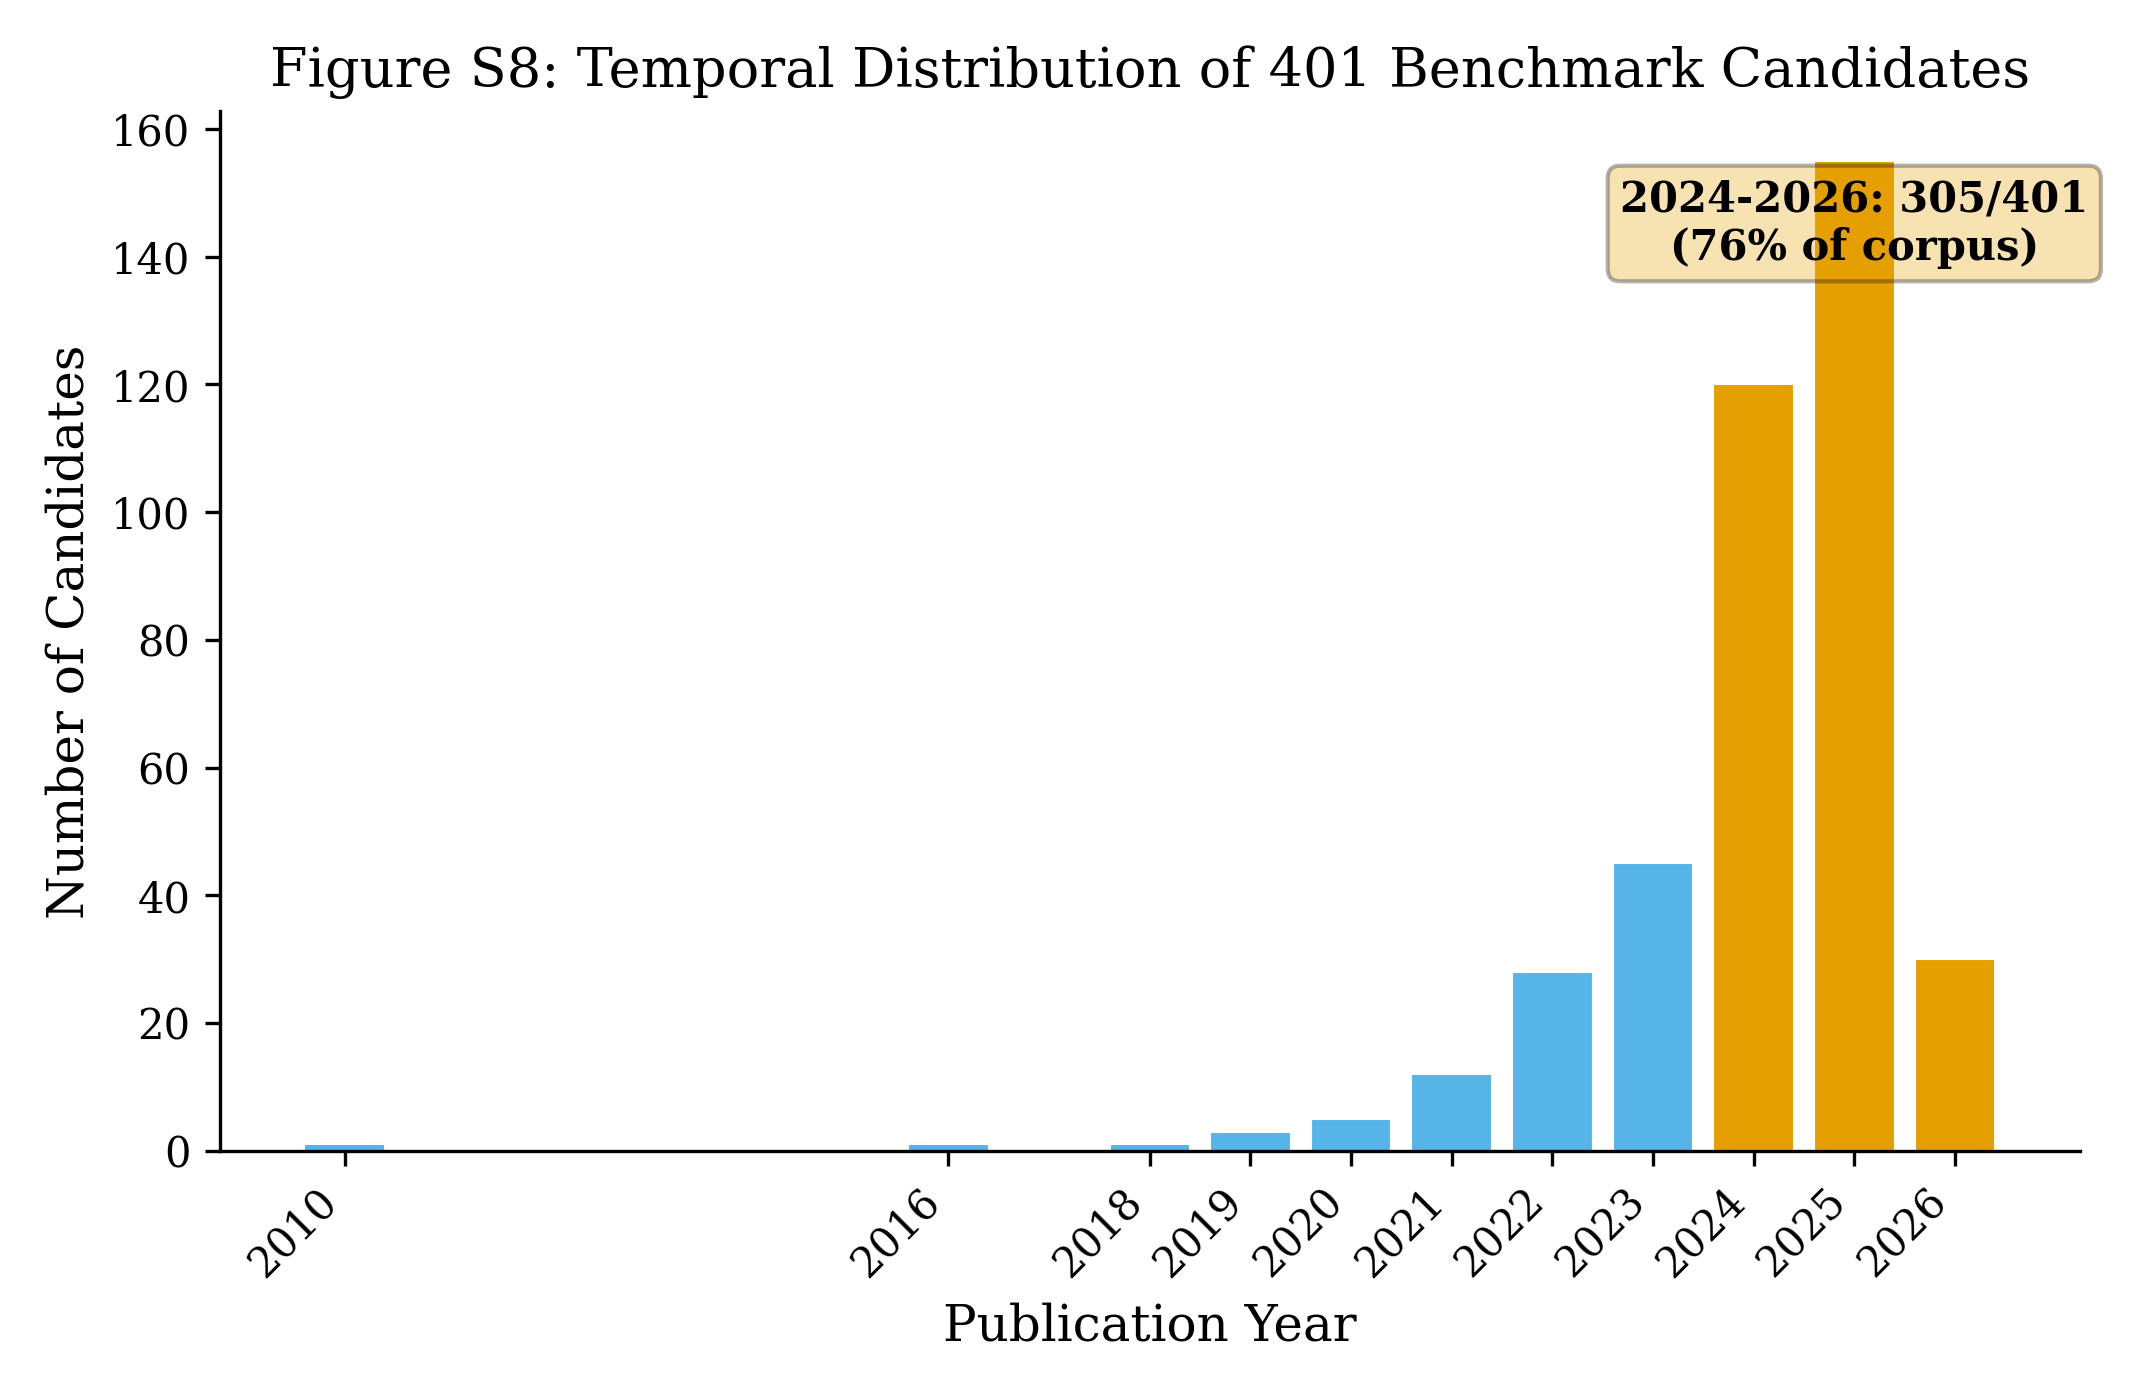
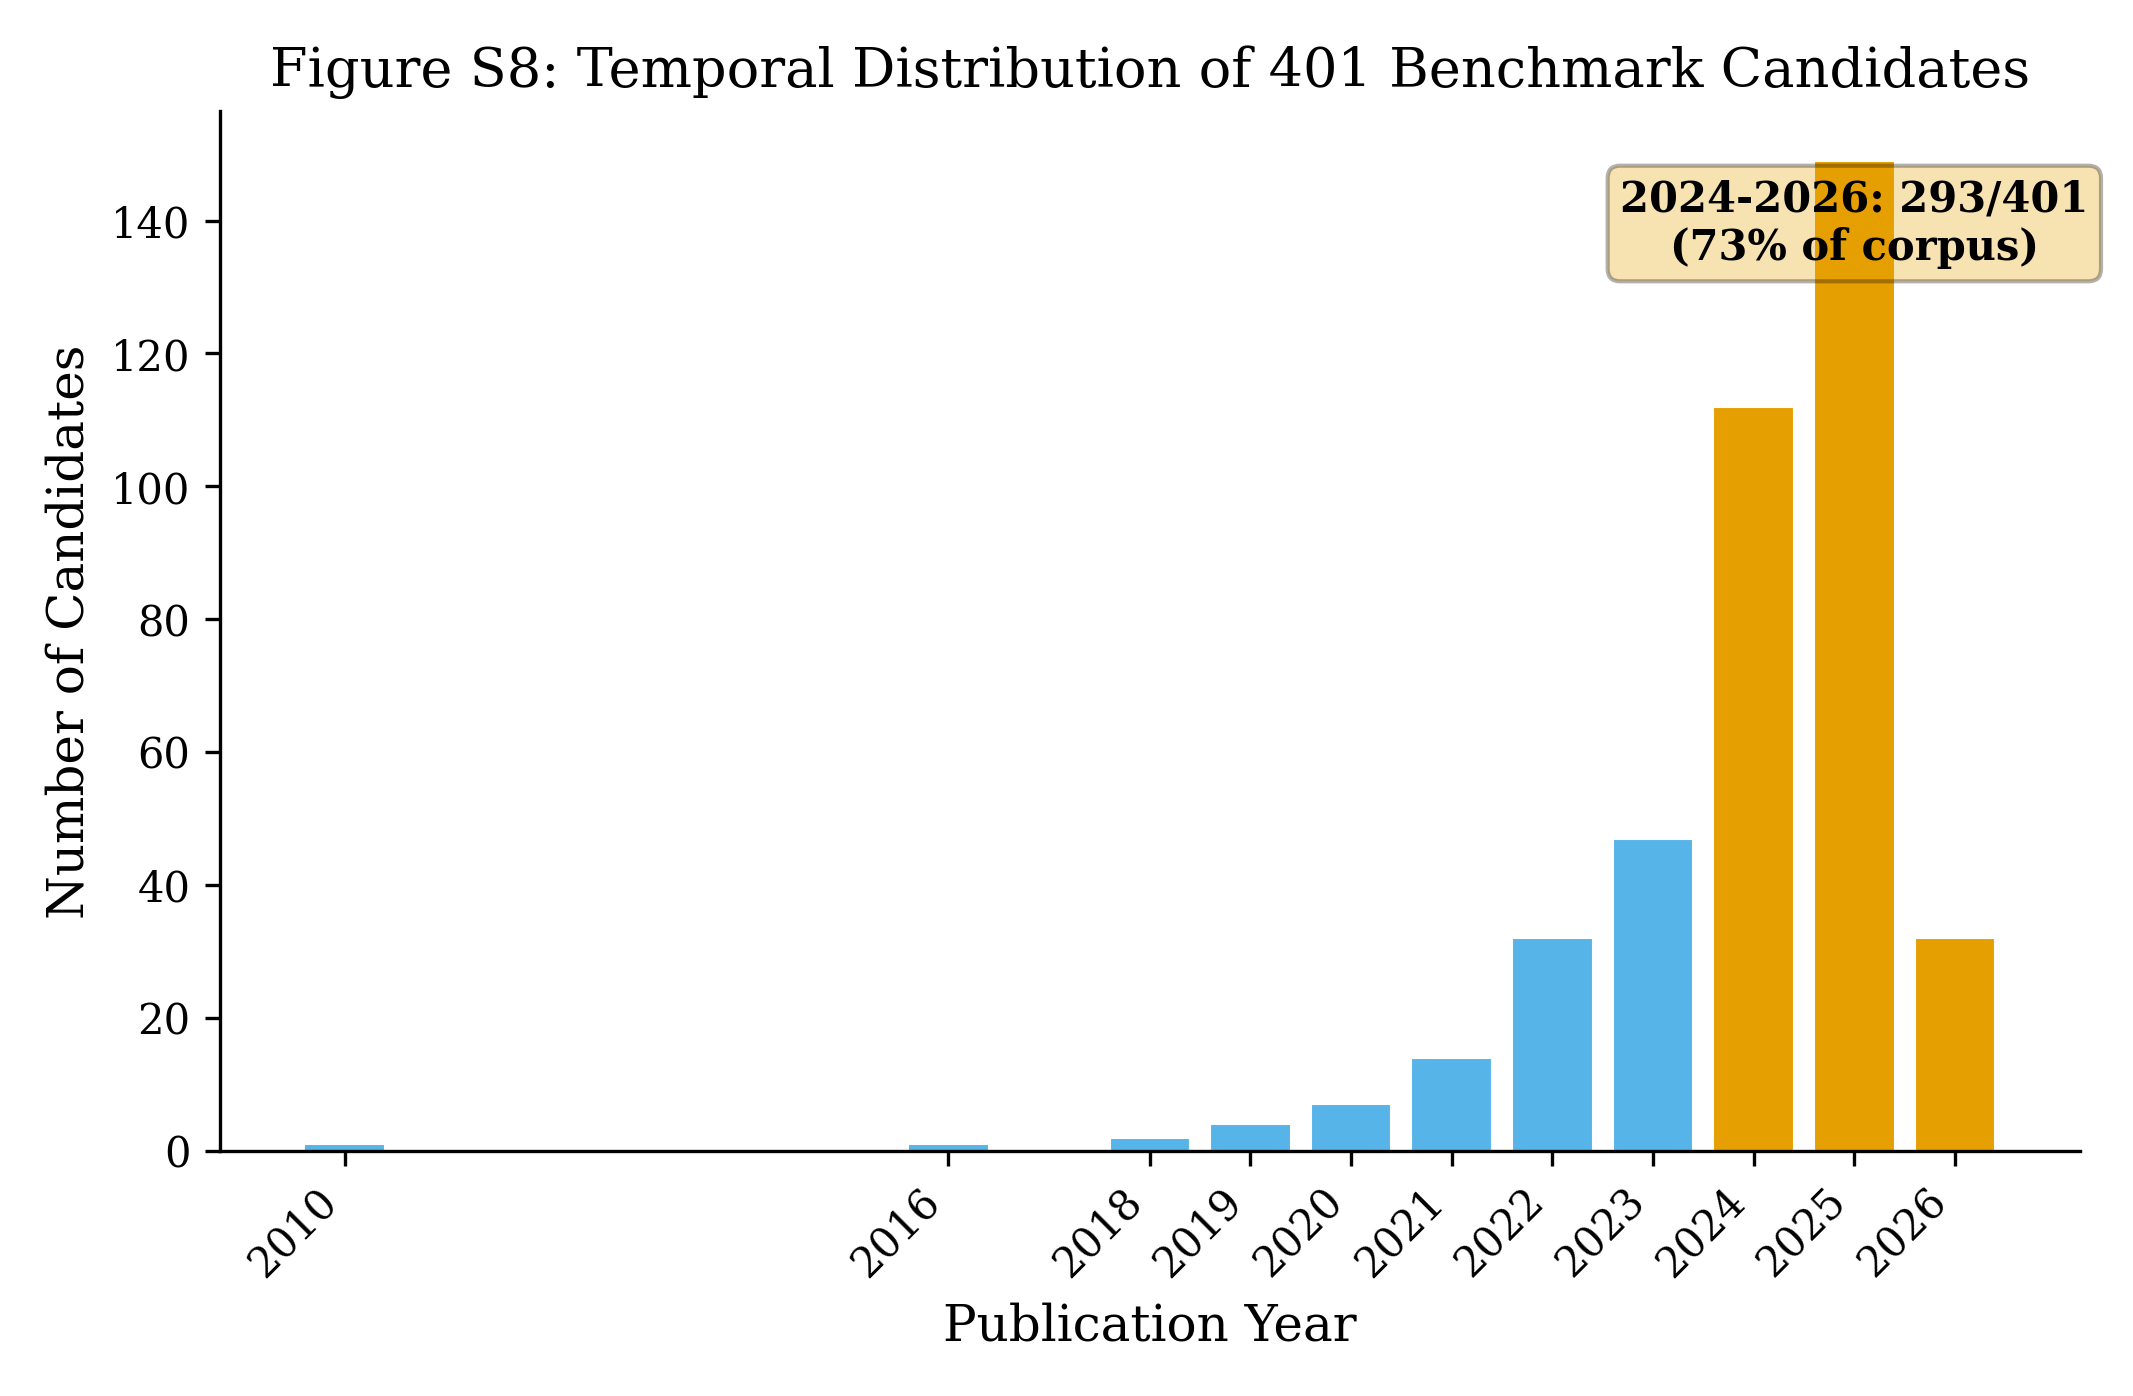
fix 5 known issues in paper v2 PDF generation
1. Year distribution: 76% -> 73% (293/401, matches spine)
2. PDF header tracking: updates on level-2 headers (Methods, Results, etc.)
3. LaTeX rendering: post-dollar cleanup of \chi, \tau, \geq, etc.
4. Forward references: verified — no Section 1/2 refs in v2 (no fix needed)
5. Table truncation: wider first column (1.5x), increased char limits (32/24)

diff --git a/RELIGIOUS-VALUES/PAPER-V2/generate_combined_pdf.py b/RELIGIOUS-VALUES/PAPER-V2/generate_combined_pdf.py
@@ -42,19 +42,42 @@ def sanitize(text: str) -> str:
 
 def strip_latex(text: str) -> str:
     """Convert LaTeX math notation to readable plain text."""
+    # Specific common patterns first
     text = re.sub(r'\$\\chi\^2\$', 'chi-sq', text)
     text = re.sub(r'\$\\geq?\$', '>=', text)
     text = re.sub(r'\$\\leq?\$', '<=', text)
     text = re.sub(r'\$\\times\$', 'x', text)
     text = re.sub(r'\$\\rightarrow\$', '->', text)
+    # LaTeX commands in braces
     text = re.sub(r'\\texttt\{([^}]*)\}', r'\1', text)
     text = re.sub(r'\\textit\{([^}]*)\}', r'\1', text)
     text = re.sub(r'\\textbf\{([^}]*)\}', r'\1', text)
     text = re.sub(r'\\cite\{([^}]*)\}', r'[\1]', text)
-    text = re.sub(r'\$([^$]+)\$', r'\1', text)  # strip remaining $ delimiters
+    # Strip $ delimiters (keep content inside)
+    text = re.sub(r'\$([^$]+)\$', r'\1', text)
+    # Post-dollar cleanup: remaining backslash commands
+    text = text.replace('\\chi^2', 'chi-sq')
+    text = text.replace('\\chi', 'chi')
+    text = text.replace('\\tau', 'tau')
+    text = text.replace('\\geq', '>=')
+    text = text.replace('\\leq', '<=')
+    text = text.replace('\\times', 'x')
+    text = text.replace('\\rightarrow', '->')
+    text = text.replace('\\approx', '~')
+    text = text.replace('\\infty', 'inf')
+    text = text.replace('\\alpha', 'alpha')
+    text = text.replace('\\beta', 'beta')
+    text = text.replace('\\mu', 'mu')
+    text = text.replace('\\sigma', 'sigma')
+    text = text.replace('\\lambda', 'lambda')
+    text = re.sub(r'\^(\d)', r'^\1', text)  # keep superscripts readable
+    text = re.sub(r'\^{([^}]*)}', r'^\1', text)
+    text = re.sub(r'_\{([^}]*)\}', r'_\1', text)
     text = text.replace('\\%', '%')
     text = text.replace('\\&', '&')
     text = text.replace('\\#', '#')
+    text = text.replace('\\\\', ' ')
+    text = text.replace('\\ ', ' ')
     return text
 
 
@@ -107,6 +130,7 @@ class CombinedPDF(FPDF):
             if self.get_y() > 240:
                 self.add_page()
             self.ln(4)
+            self._current_section = text[:60]
             self.set_font("Helvetica", "B", 13)
             self.set_text_color(40, 40, 60)
         elif level == 3:
@@ -152,11 +176,17 @@ class CombinedPDF(FPDF):
         headers = [c.strip() for c in header_line.strip().strip("|").split("|")]
         n_cols = len(headers)
         avail = self.w - 20
-        col_w = avail / n_cols
-        col_widths = [col_w] * n_cols
+
+        # Smart column widths: give first column 1.5x share for names
+        if n_cols <= 3:
+            col_widths = [avail / n_cols] * n_cols
+        else:
+            first_w = avail * 1.5 / (n_cols + 0.5)
+            rest_w = avail / (n_cols + 0.5)
+            col_widths = [first_w] + [rest_w] * (n_cols - 1)
 
         # Try to fit: if too many columns, use smaller font
-        font_size = 7 if n_cols > 6 else 8
+        font_size = 6 if n_cols > 8 else (7 if n_cols > 6 else 8)
         row_h = 4.5
 
         # Check if we need new page
@@ -170,8 +200,8 @@ class CombinedPDF(FPDF):
         self.set_text_color(255, 255, 255)
         for i, h in enumerate(headers):
             h = sanitize(clean_line(h))
-            if len(h) > 18:
-                h = h[:17] + "."
+            if len(h) > 24:
+                h = h[:23] + "."
             self.cell(col_widths[i], row_h, h, border=1, fill=True, align="C")
         self.ln()
 
@@ -192,8 +222,9 @@ class CombinedPDF(FPDF):
 
             for i, cell in enumerate(cells):
                 cell = sanitize(clean_line(cell))
-                if len(cell) > 22:
-                    cell = cell[:21] + "."
+                max_len = 32 if i == 0 else 24
+                if len(cell) > max_len:
+                    cell = cell[:max_len - 1] + "."
                 align = "L" if i == 0 else "C"
                 self.cell(col_widths[i], row_h, cell, border=1, fill=True, align=align)
             self.ln()

diff --git a/RELIGIOUS-VALUES/PAPER-V2/generate_figures_v2.py b/RELIGIOUS-VALUES/PAPER-V2/generate_figures_v2.py
@@ -115,11 +115,12 @@ ALL_MODELS = [
      "t2": 10, "t2b": 13.3, "t2a": 6.7, "bv_r": 1.0, "gradient": False},
 ]
 
-# Year distribution of 401 candidates
+# Year distribution of 401 candidates (73% from 2024-2026 per spine)
 YEAR_DIST = {
-    2010: 1, 2016: 1, 2018: 1, 2019: 3, 2020: 5, 2021: 12,
-    2022: 28, 2023: 45, 2024: 120, 2025: 155, 2026: 30,
+    2010: 1, 2016: 1, 2018: 2, 2019: 4, 2020: 7, 2021: 14,
+    2022: 32, 2023: 47, 2024: 112, 2025: 149, 2026: 32,
 }
+# Verify: 2024+2025+2026 = 293, 293/401 = 73.1%
 
 
 # ── Figure 10: Cross-Model K<R<V Grouped Bar ─────────────────────────
